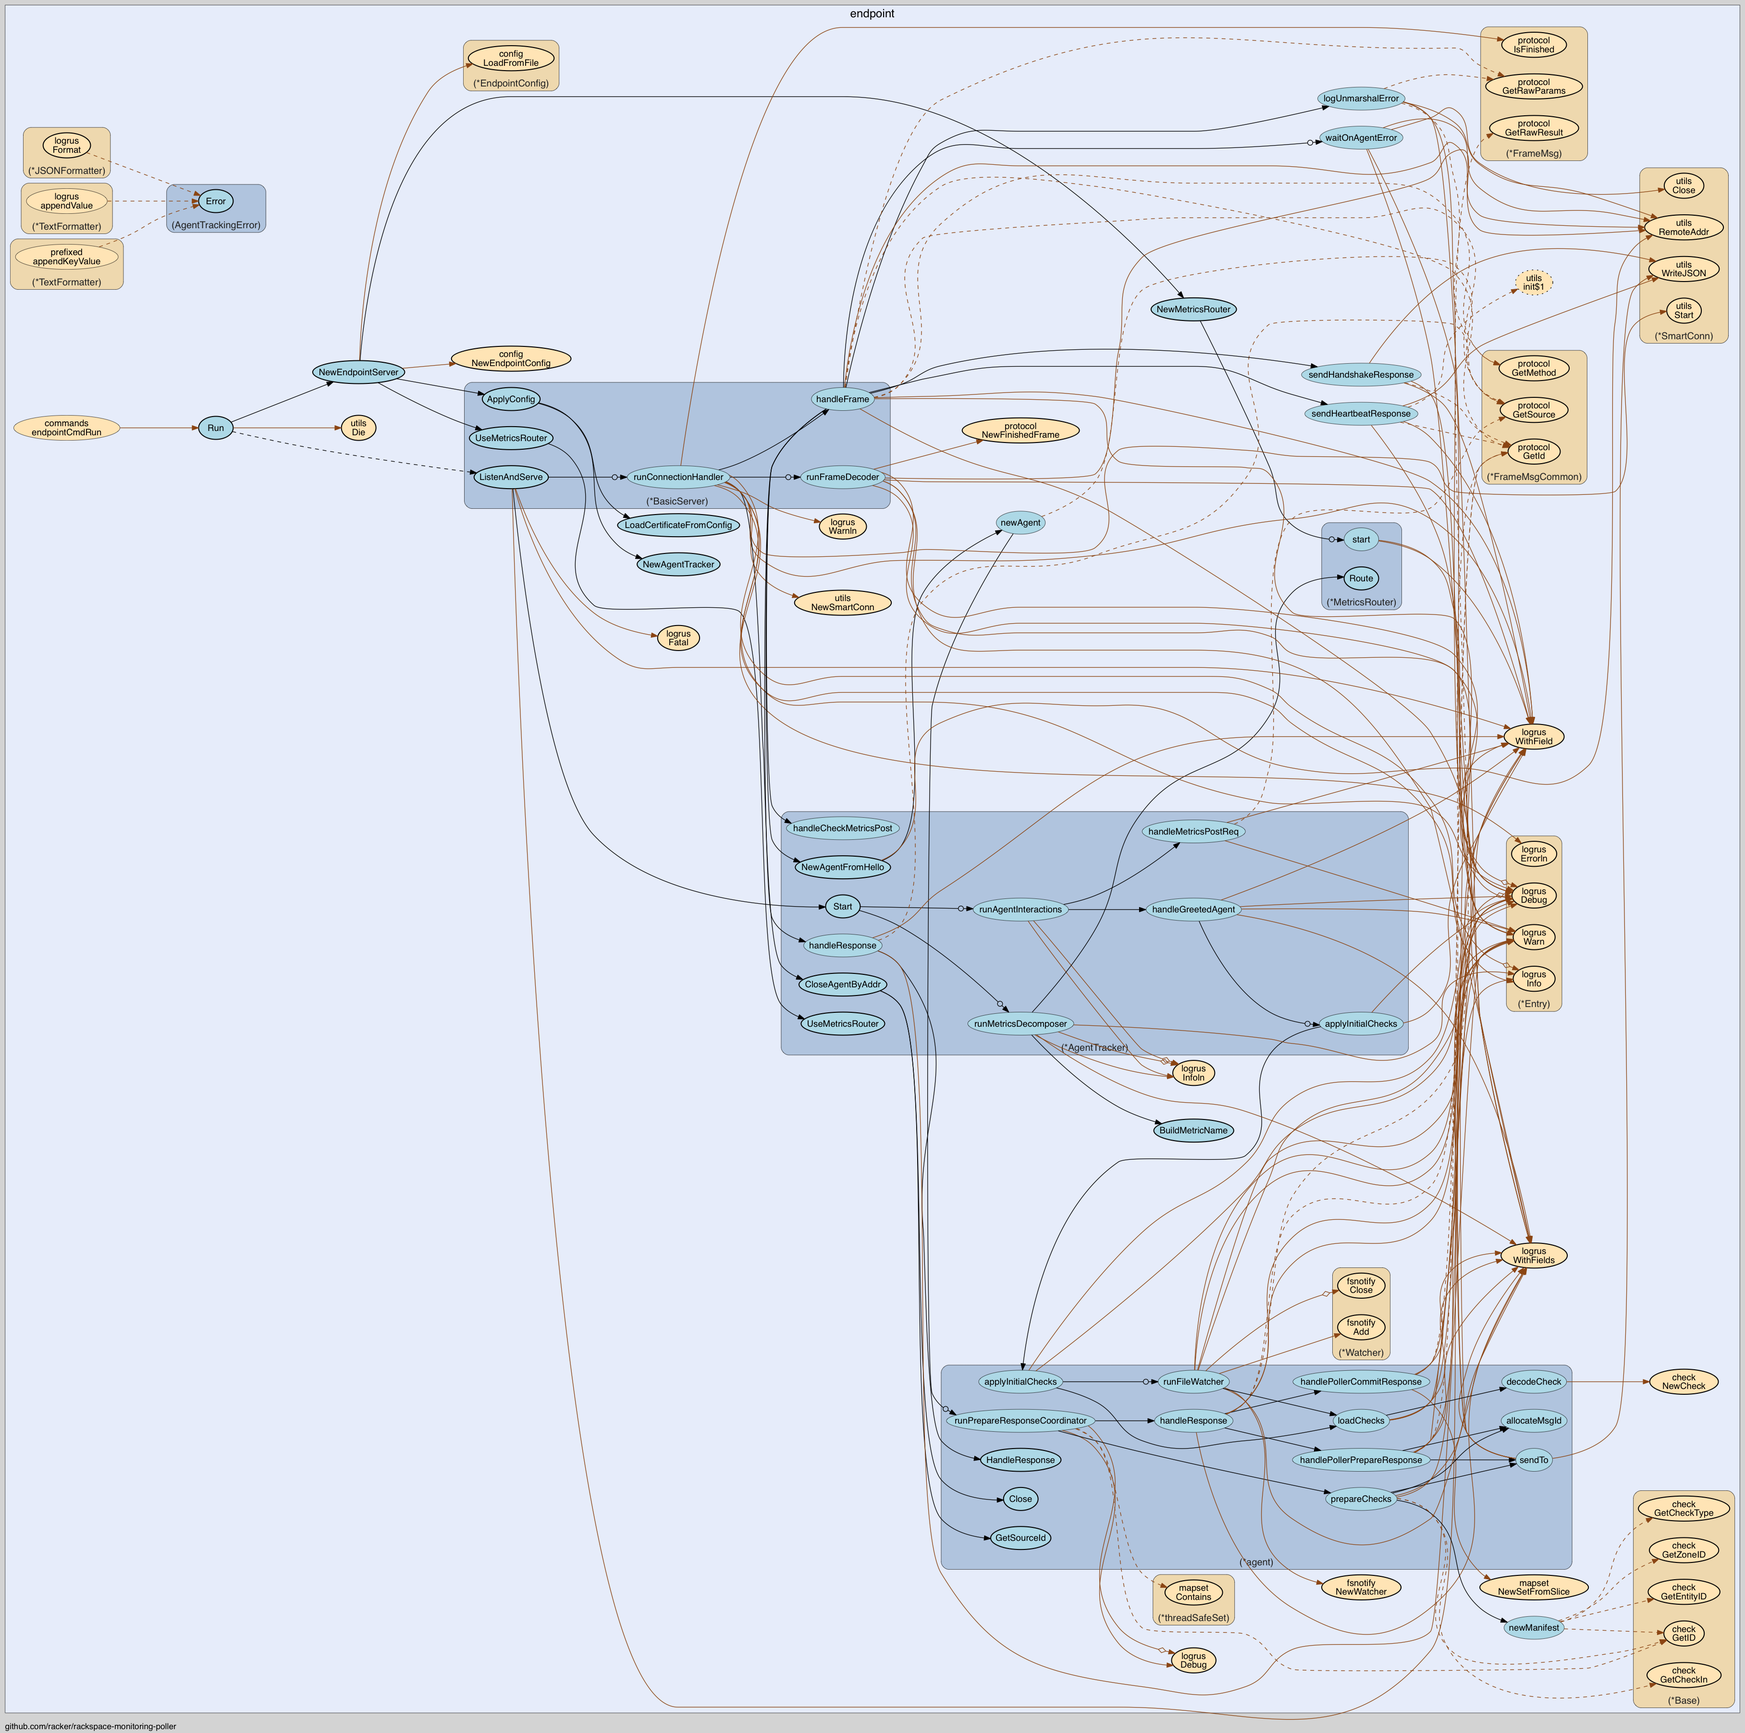
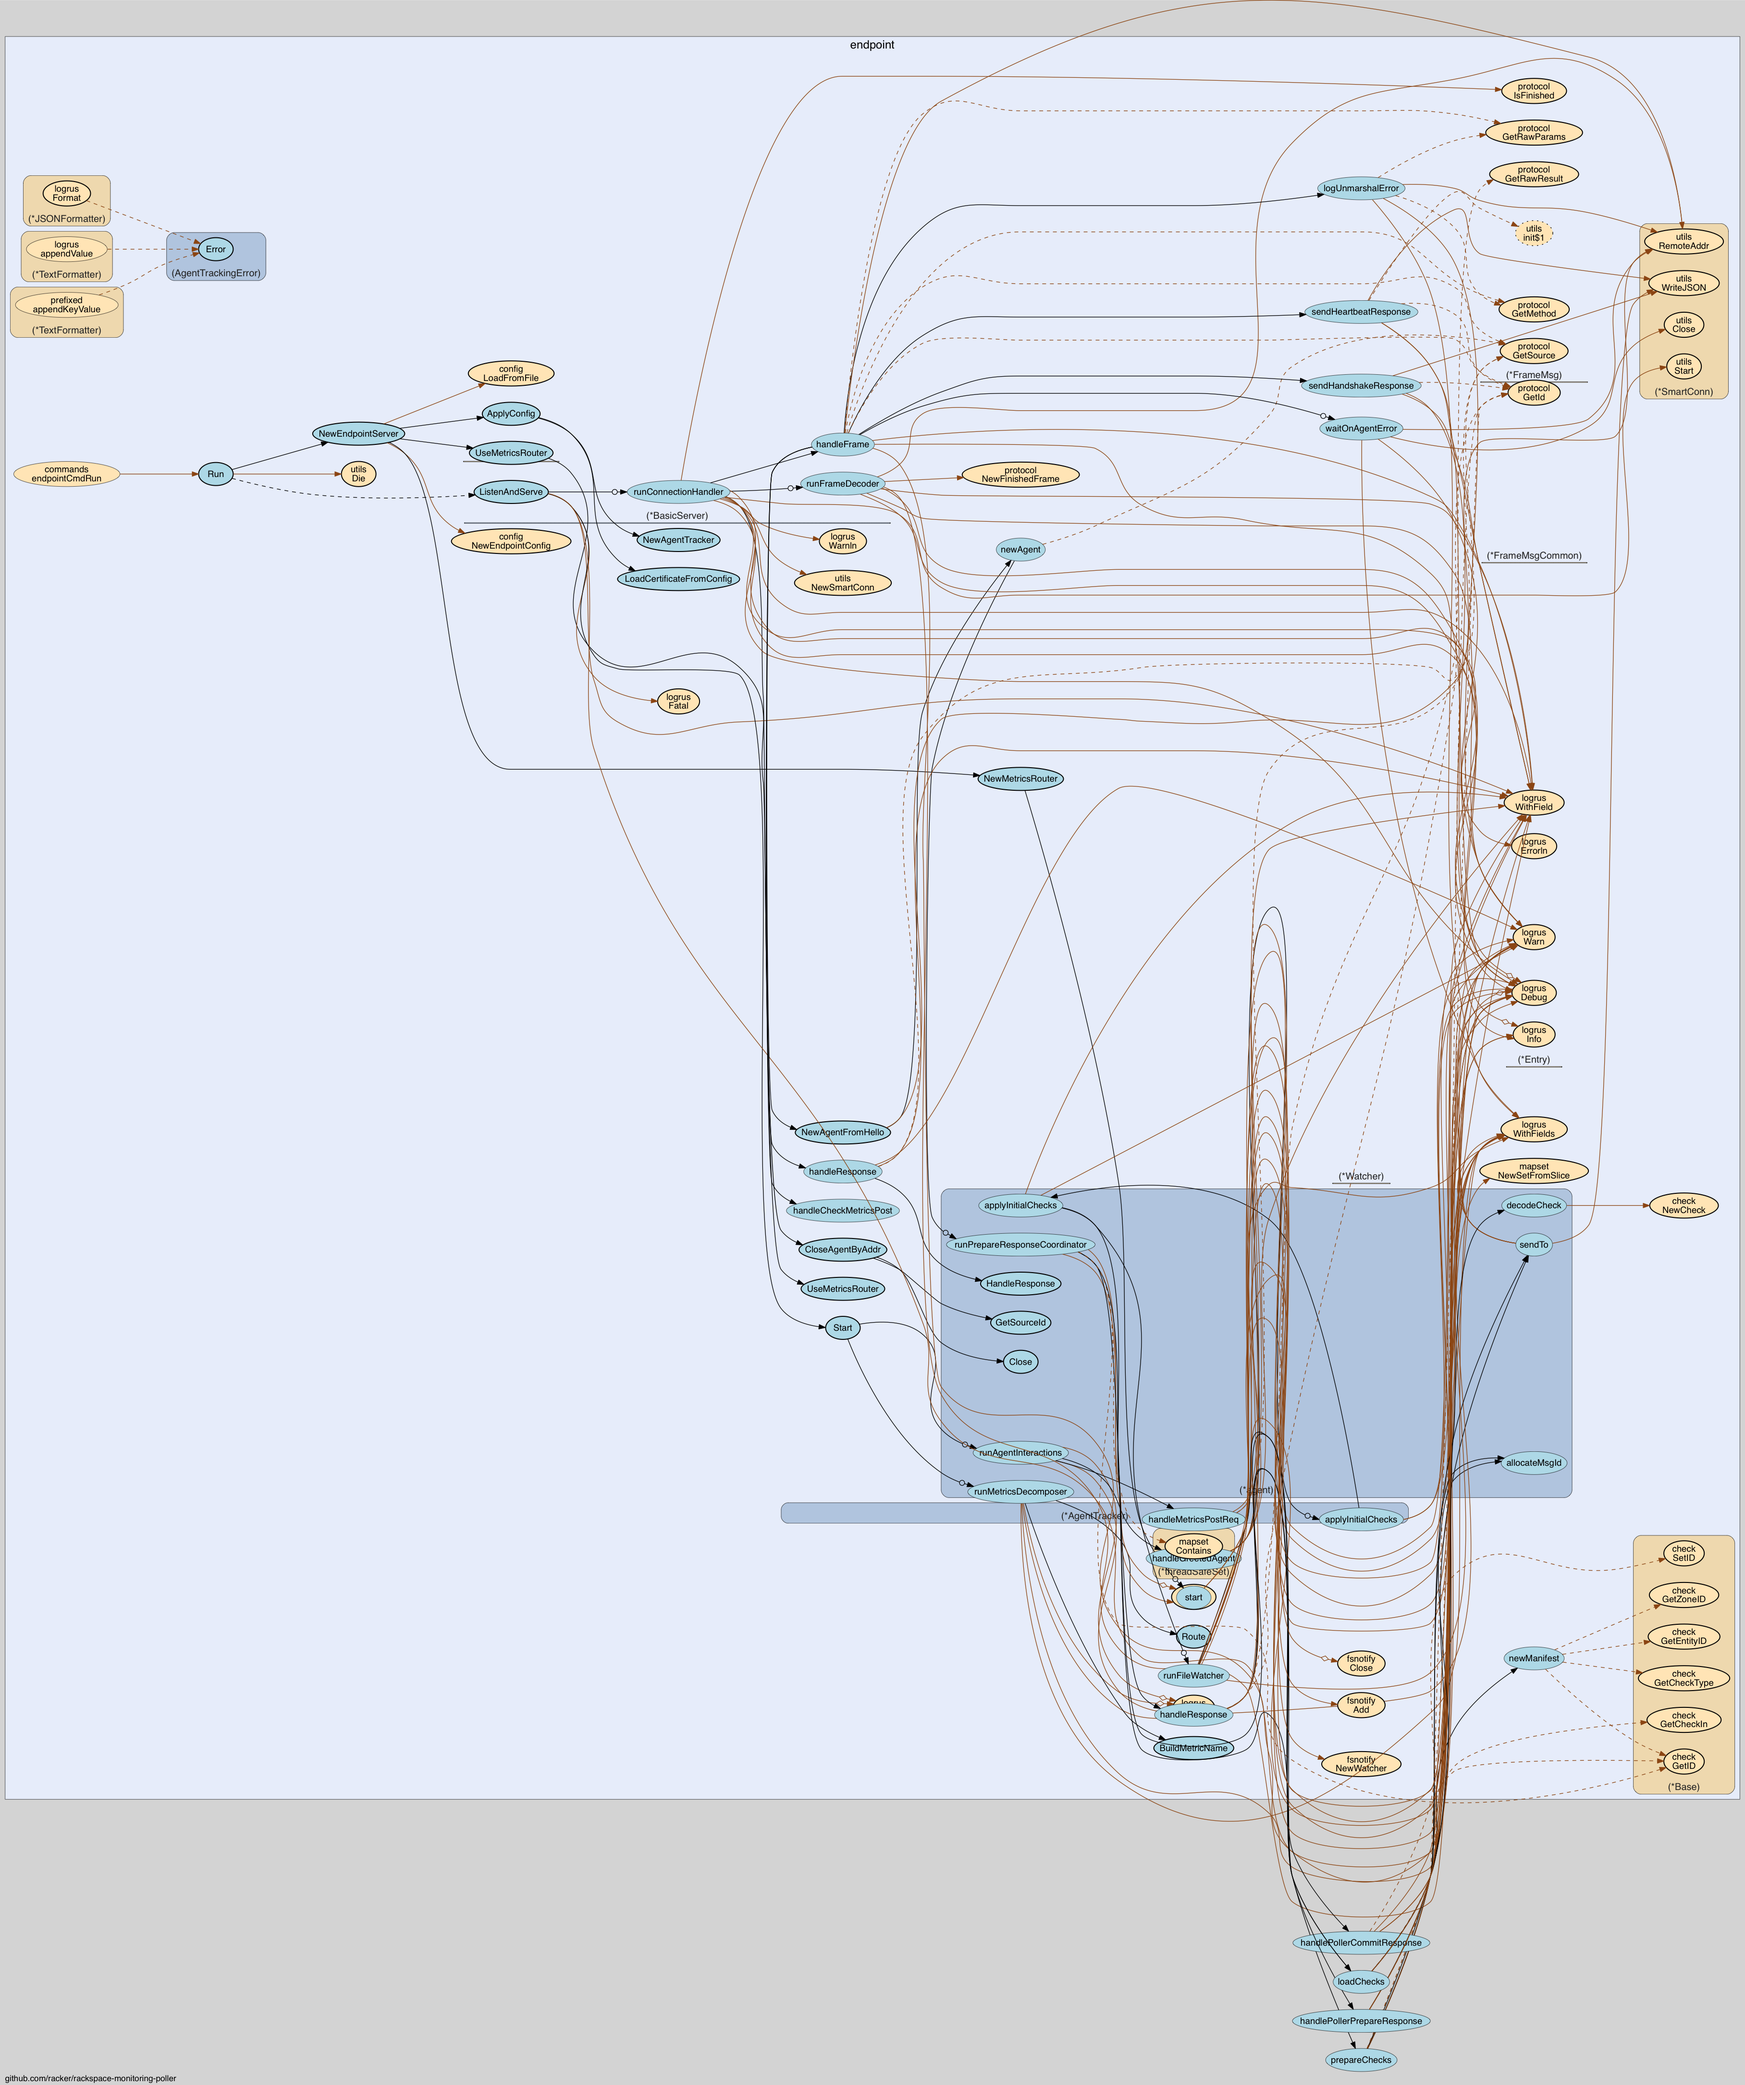
Resolve sporadic shutdown hangs (#109) (CMC-1435)
* Removing unused session shutdown lock and error latch
* endpoint simulator was giving emtpy string for all check IDs
* add more logging to connection stream closure
* Set raw conn to nil in connection on closure

diff --git a/poller/connection_stream_test.go b/poller/connection_stream_test.go
@@ -92,7 +92,7 @@ func TestConnectionStream_Connect(t *testing.T) {
 			cs.RegisterEventConsumer(consumer)
 
 			cs.Connect()
-			consumer.waitFor(t, time.Duration(tt.connectionTimeoutMs)*time.Millisecond, poller.EventTypeRegister, conn)
+			consumer.waitFor(t, time.Duration(tt.connectionTimeoutMs)*time.Millisecond, poller.EventTypeRegister, gomock.Eq(conn))
 			cancel()
 
 			select {
@@ -205,9 +205,9 @@ func TestEleConnectionStream_SendMetrics_Normal(t *testing.T) {
 
 	cs.Connect()
 	factory.waitForConnections(t, 20*time.Millisecond)
-	consumer.waitFor(t, 5*time.Millisecond, poller.EventTypeRegister, c1)
-	consumer.waitFor(t, 5*time.Millisecond, poller.EventTypeRegister, c2)
-	consumer.waitFor(t, 5*time.Millisecond, poller.EventTypeRegister, c3)
+	consumer.waitFor(t, 5*time.Millisecond, poller.EventTypeRegister, gomock.Eq(c1))
+	consumer.waitFor(t, 5*time.Millisecond, poller.EventTypeRegister, gomock.Eq(c2))
+	consumer.waitFor(t, 5*time.Millisecond, poller.EventTypeRegister, gomock.Eq(c3))
 
 	crs := check.ResultSet{
 		Check: &check.TCPCheck{},
@@ -260,9 +260,9 @@ func TestEleConnectionStream_SendMetrics_RollOver(t *testing.T) {
 
 	cs.Connect()
 	factory.waitForConnections(t, 20*time.Millisecond)
-	consumer.waitFor(t, 5*time.Millisecond, poller.EventTypeRegister, c1)
-	consumer.waitFor(t, 5*time.Millisecond, poller.EventTypeRegister, c2)
-	consumer.waitFor(t, 5*time.Millisecond, poller.EventTypeRegister, c3)
+	consumer.waitFor(t, 5*time.Millisecond, poller.EventTypeRegister, gomock.Eq(c1))
+	consumer.waitFor(t, 5*time.Millisecond, poller.EventTypeRegister, gomock.Eq(c2))
+	consumer.waitFor(t, 5*time.Millisecond, poller.EventTypeRegister, gomock.Eq(c3))
 
 	crs := check.ResultSet{
 		Check: &check.TCPCheck{},
@@ -273,7 +273,7 @@ func TestEleConnectionStream_SendMetrics_RollOver(t *testing.T) {
 	consumer.assertNoEvent(t, 5*time.Millisecond)
 
 	close(doneEarly) // closes c2
-	consumer.waitFor(t, 5*time.Millisecond, poller.EventTypeDeregister, c2)
+	consumer.waitFor(t, 5*time.Millisecond, poller.EventTypeDeregister, gomock.Eq(c2))
 
 	cs.SendMetrics(&crs)
 	factory.waitForFrame(t, 5*time.Millisecond)
@@ -308,7 +308,7 @@ func TestEleConnectionStream_SendMetrics_OneThenDrop(t *testing.T) {
 
 	cs.Connect()
 	factory.waitForConnections(t, 20*time.Millisecond)
-	consumer.waitFor(t, 5*time.Millisecond, poller.EventTypeRegister, c2)
+	consumer.waitFor(t, 5*time.Millisecond, poller.EventTypeRegister, gomock.Eq(c2))
 
 	crs := &check.ResultSet{
 		Check: &check.TCPCheck{},
@@ -319,10 +319,10 @@ func TestEleConnectionStream_SendMetrics_OneThenDrop(t *testing.T) {
 	consumer.assertNoEvent(t, 5*time.Millisecond)
 
 	close(done)
-	consumer.waitFor(t, 5*time.Millisecond, poller.EventTypeDeregister, c2)
+	consumer.waitFor(t, 5*time.Millisecond, poller.EventTypeDeregister, gomock.Eq(c2))
 
 	cs.SendMetrics(crs)
-	consumer.waitFor(t, 5*time.Millisecond, poller.EventTypeDroppedMetric, crs)
+	consumer.waitFor(t, 5*time.Millisecond, poller.EventTypeDroppedMetric, gomock.Eq(crs))
 }
 
 func TestEleConnectionStream_SendMetrics_NoConnections(t *testing.T) {
@@ -348,7 +348,7 @@ func TestEleConnectionStream_SendMetrics_NoConnections(t *testing.T) {
 	}
 	cs.SendMetrics(crs)
 
-	consumer.waitFor(t, 5*time.Millisecond, poller.EventTypeDroppedMetric, crs)
+	consumer.waitFor(t, 5*time.Millisecond, poller.EventTypeDroppedMetric, gomock.Eq(crs))
 }
 
 type mockConnFactory struct {
@@ -443,11 +443,13 @@ func (c *phasingEventConsumer) HandleEvent(evt utils.Event) error {
 	return nil
 }
 
-func (c *phasingEventConsumer) waitFor(t *testing.T, timeout time.Duration, eventType string, eventTarget interface{}) {
+func (c *phasingEventConsumer) waitFor(t *testing.T, timeout time.Duration, eventType string, targetMatcher gomock.Matcher) {
 	select {
 	case evt := <-c.events:
 		assert.Equal(t, eventType, evt.Type(), "Wrong event type")
-		assert.Equal(t, eventTarget, evt.Target(), "Wrong event type")
+		if !targetMatcher.Matches(evt.Target()) {
+			assert.Fail(t, targetMatcher.String())
+		}
 	case <-time.After(timeout):
 		assert.Fail(t, "Did not observe an event")
 	}

diff --git a/poller/session.go b/poller/session.go
@@ -40,8 +40,10 @@ type CompletionFrame struct {
 }
 
 const (
-	sendChannelSize = 128
-	readChannelSize = 256
+	sendChannelSize    = 128
+	readChannelSize    = 256
+	EventTypeSendError = "SessionSendError"
+	EventTypeReadError = "SessionReadError"
 )
 
 type prepDetails struct {
@@ -56,6 +58,8 @@ type prepDetails struct {
 // EleSession implements Session interface
 // See Session for more information
 type EleSession struct {
+	utils.EventConsumerRegistry
+
 	// reference to the connection
 	connection Connection
 
@@ -73,10 +77,6 @@ type EleSession struct {
 
 	// sequence message ID
 	seq uint64
-
-	shutdownLock sync.Mutex
-	shutdown     bool
-	error        error
 
 	completionsMu sync.Mutex
 	completions   map[uint64]*CompletionFrame
@@ -146,10 +146,6 @@ func (s *EleSession) Respond(msg protocol.Frame) {
 	s.sendCh <- msg
 }
 
-func (s *EleSession) GetError() error {
-	return s.error
-}
-
 func (s *EleSession) getCompletionRequest(resp protocol.Frame) *CompletionFrame {
 	s.completionsMu.Lock()
 	req, ok := s.completions[resp.GetId()]
@@ -204,7 +200,6 @@ func (s *EleSession) computeWriteDeadline() time.Time {
 func (s *EleSession) runFrameReading() {
 	log.WithField("prefix", s.logPrefix).Debug("read starting")
 	defer log.WithField("prefix", s.logPrefix).Debug("read exiting")
-	defer s.cancel()
 
 	for {
 		select {
@@ -215,9 +210,11 @@ func (s *EleSession) runFrameReading() {
 			s.connection.SetReadDeadline(s.computeReadDeadline())
 			if err := s.dec.Decode(f); err == io.EOF {
 				log.WithField("connection", s.connection).Info("Far end closed connection")
+				s.cancel()
 				return
 			} else if err != nil {
 				s.exitError(err)
+				s.cancel()
 				return
 			}
 			s.readCh <- f
@@ -236,7 +233,7 @@ func (s *EleSession) runFrameHandlingAndTimeout() {
 
 		case f := <-s.readCh:
 			if err := s.handleFrame(f); err != nil {
-				s.error = err
+				s.EmitEvent(utils.NewEvent(EventTypeReadError, &FrameMsgError{Frame: f, Error: err}))
 				log.WithFields(log.Fields{
 					"prefix": s.logPrefix,
 					"error":  err,
@@ -577,27 +574,16 @@ func (s *EleSession) exitError(err error) {
 		"prefix": s.logPrefix,
 		"error":  err,
 	}).Warn("Session exiting with error")
-	s.shutdownLock.Lock()
-	if s.error == nil {
-		s.error = err
-	}
-	s.shutdownLock.Unlock()
+	s.EmitEvent(utils.NewEvent(EventTypeSendError, err))
 	s.Close()
 }
 
 // Close shuts down session's context and closes session
 func (s *EleSession) Close() {
-	s.shutdownLock.Lock()
-	if s.shutdown {
-		s.shutdownLock.Unlock()
-		return
-	}
-	s.shutdown = true
-	s.shutdownLock.Unlock()
 	s.cancel()
 }
 
-// Wait waits for the context to complete
+// Done returns the context-done channel scoped to this session
 func (s *EleSession) Done() <-chan struct{} {
 	return s.ctx.Done()
 }

diff --git a/poller/poller_mock_test.go b/poller/poller_mock_test.go
@@ -282,6 +282,14 @@ func (_mr *_MockSessionRecorder) Close() *gomock.Call {
 	return _mr.mock.ctrl.RecordCall(_mr.mock, "Close")
 }
 
+func (_m *MockSession) DeregisterEventConsumer(_param0 utils.EventConsumer) {
+	_m.ctrl.Call(_m, "DeregisterEventConsumer", _param0)
+}
+
+func (_mr *_MockSessionRecorder) DeregisterEventConsumer(arg0 interface{}) *gomock.Call {
+	return _mr.mock.ctrl.RecordCall(_mr.mock, "DeregisterEventConsumer", arg0)
+}
+
 func (_m *MockSession) Done() <-chan struct{} {
 	ret := _m.ctrl.Call(_m, "Done")
 	ret0, _ := ret[0].(<-chan struct{})
@@ -302,16 +310,6 @@ func (_mr *_MockSessionRecorder) GetClockOffset() *gomock.Call {
 	return _mr.mock.ctrl.RecordCall(_mr.mock, "GetClockOffset")
 }
 
-func (_m *MockSession) GetError() error {
-	ret := _m.ctrl.Call(_m, "GetError")
-	ret0, _ := ret[0].(error)
-	return ret0
-}
-
-func (_mr *_MockSessionRecorder) GetError() *gomock.Call {
-	return _mr.mock.ctrl.RecordCall(_mr.mock, "GetError")
-}
-
 func (_m *MockSession) GetLatency() int64 {
 	ret := _m.ctrl.Call(_m, "GetLatency")
 	ret0, _ := ret[0].(int64)
@@ -320,6 +318,14 @@ func (_m *MockSession) GetLatency() int64 {
 
 func (_mr *_MockSessionRecorder) GetLatency() *gomock.Call {
 	return _mr.mock.ctrl.RecordCall(_mr.mock, "GetLatency")
+}
+
+func (_m *MockSession) RegisterEventConsumer(_param0 utils.EventConsumer) {
+	_m.ctrl.Call(_m, "RegisterEventConsumer", _param0)
+}
+
+func (_mr *_MockSessionRecorder) RegisterEventConsumer(arg0 interface{}) *gomock.Call {
+	return _mr.mock.ctrl.RecordCall(_mr.mock, "RegisterEventConsumer", arg0)
 }
 
 func (_m *MockSession) Respond(_param0 protocol.Frame) {

diff --git a/poller/connection_stream.go b/poller/connection_stream.go
@@ -228,7 +228,7 @@ func (cs *EleConnectionStream) Connect() {
 	} else {
 		for _, addr := range cs.config.Addresses {
 			cs.wg.Add(1)
-			go cs.connectByHost(addr)
+			go cs.runHostConnection(addr)
 		}
 	}
 }
@@ -244,6 +244,10 @@ func (cs *EleConnectionStream) Done() <-chan struct{} {
 }
 
 func (cs *EleConnectionStream) connectBySrv(qry string) {
+	log.WithFields(log.Fields{
+		"prefix": cs.GetLogPrefix(),
+		"query":  qry,
+	}).Debug("Resolving by service")
 	_, addrs, err := net.LookupSRV("", "", qry)
 	if err != nil {
 		log.WithFields(log.Fields{
@@ -264,11 +268,19 @@ func (cs *EleConnectionStream) connectBySrv(qry string) {
 		"prefix": cs.GetLogPrefix(),
 		"query":  qry,
 		"addr":   addr,
-	}).Debug("Connecting")
-	cs.connectByHost(addr)
+	}).Debug("Resolved service")
+	cs.runHostConnection(addr)
 }
 
-func (cs *EleConnectionStream) connectByHost(addr string) {
+func (cs *EleConnectionStream) runHostConnection(addr string) {
+	log.WithFields(log.Fields{
+		"prefix": cs.GetLogPrefix(),
+		"addr":   addr,
+	}).Debug("Connecting by address")
+	defer log.WithFields(log.Fields{
+		"prefix": cs.GetLogPrefix(),
+		"addr":   addr,
+	}).Debug("Connection exiting")
 	defer cs.wg.Done()
 
 	b := &backoff.Backoff{

diff --git a/poller/session_test.go b/poller/session_test.go
@@ -225,14 +225,15 @@ func TestEleSession_HandshakeError(t *testing.T) {
 	eleConn, reconciler, writesHere, readsHere := setupConnStreamExpectations(ctrl)
 	defer readsHere.Close()
 
+	eventConsumer := newPhasingEventConsumer()
 	cfg := config.NewConfig("1-2-3", false)
 	es := poller.NewSession(context.Background(), eleConn, reconciler, cfg)
+	es.RegisterEventConsumer(eventConsumer)
 	defer es.Close()
 
 	handshakeError(t, writesHere, readsHere, 400, "some error")
 
-	time.Sleep(10 * time.Millisecond)
-	require.Error(t, es.GetError())
+	eventConsumer.waitFor(t, 10*time.Millisecond, poller.EventTypeReadError, gomock.Any())
 }
 
 func TestEleSession_PollerPrepare(t *testing.T) {

diff --git a/poller/poller.go b/poller/poller.go
@@ -86,13 +86,13 @@ type ConnectionHealthProvider interface {
 // response timeout management, and transferring data
 type Session interface {
 	ConnectionHealthProvider
+	utils.EventSource
 
 	Auth()
 	Send(msg protocol.Frame)
 	Respond(msg protocol.Frame)
 	Close()
 	Done() <-chan struct{}
-	GetError() error
 }
 
 // CheckScheduler arranges the periodic invocation of the given Check
@@ -136,3 +136,8 @@ type Scheduler interface {
 type ConnectionFactory func(address string, guid string, checksReconciler ChecksReconciler) Connection
 
 type ConnectionsByHost map[string]Connection
+
+type FrameMsgError struct {
+	Frame *protocol.FrameMsg
+	Error error
+}

diff --git a/endpoint/agent.go b/endpoint/agent.go
@@ -70,6 +70,7 @@ type agent struct {
 	responses    chan protocol.Frame
 	// The following are only accessed within runPrepareResponseCoordinator go routine
 
+	checkId         uint64
 	outMsgId        uint64
 	checksVersion   uint64
 	committedChecks set.Set // of check IDs
@@ -204,6 +205,9 @@ func (a *agent) loadChecks(pathToChecks string, zone string) ([]check.Check, err
 				}).Warn("Unable to read checks file")
 				continue
 			}
+
+			a.checkId++
+			ch.SetID(fmt.Sprintf("ch%08X", a.checkId))
 
 			startChecks = append(startChecks, ch)
 		}

diff --git a/poller/connection.go b/poller/connection.go
@@ -134,6 +134,7 @@ func (conn *EleConnection) Connect(ctx context.Context, config *config.Config, t
 func (conn *EleConnection) Close() {
 	if conn.conn != nil {
 		conn.conn.Close()
+		conn.conn = nil
 	}
 	conn.GetSession().Close()
 }
